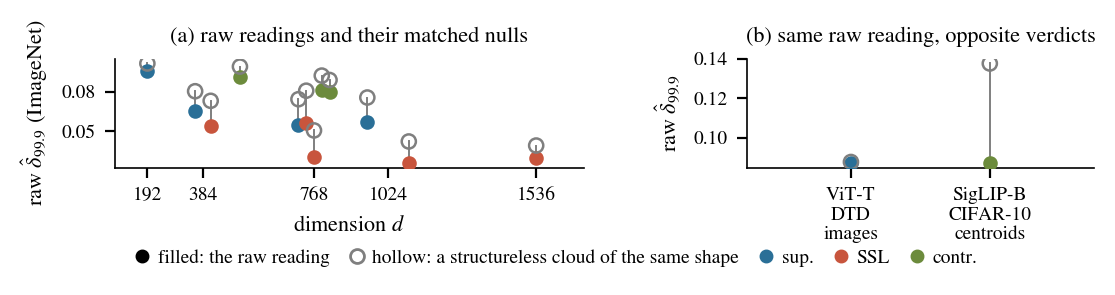
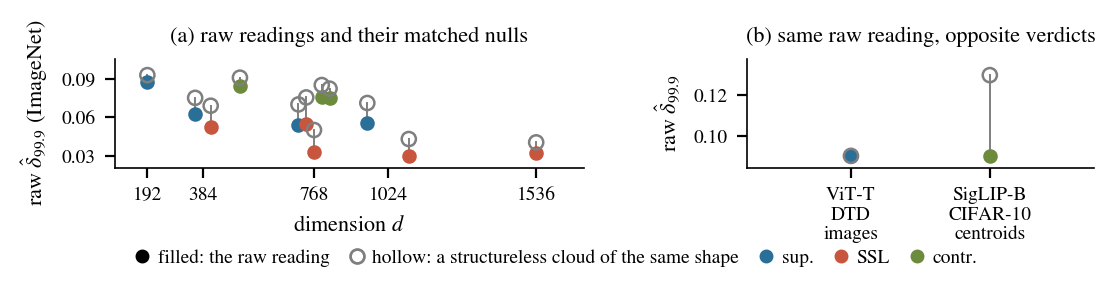
Figure 2: vertical headroom and unclipped markers so the top rings are whole; body regenerated from the template, restoring the abstract ('withinynull' from the Overleaf sync) and two provenance comments in Section 1; 0 warnings, page 9, sweep 160/160
Claude-Session: https://claude.ai/code/session_01X3uQtPxuL37VCSgmwvB8QH

diff --git a/ICLR2027/iclr2027/main_iclr2027.tex b/ICLR2027/iclr2027/main_iclr2027.tex
@@ -47,7 +47,7 @@
 \raggedbottom   % final pass: [t] figures and [H] tables leave short pages; ragged bottoms instead of underfull vertical boxes
 
 \begin{abstract}
-Hyperbolic methods for representation learning rest on a premise we call latent hyperbolicity: standard models are already tree-like, because their class geometry scores a low Gromov $\delta$. We show that this raw reading is confounded by dimension, by covariance spectrum and by the supremum statistic itself, and we build an instrument that reads every score as an excess over a random cloud with the same dimension and spectrum, ranks it against 200 matched replicates, and adds a depth test whose false-alarm rate and power are measured on real clouds. Applied to 12 vision backbones, 6 datasets and 16 text models, the instrument gives a nuanced answer. On image features, where the premise is read, the excess sits withinynull noise in most cells and reaches at most 40\% of the null where it survives. On class centroids, clustered structure is genuine in 49 of 72 cells, but a star already produces it. Hierarchy above the superclasses is certified in 4 of 12 ImageNet backbones, the same four under a star with the real hubs' spectrum, by a test that never fires on real clouds with randomized hubs; a backbone trained in hyperbolic space lives in the near-flat regime and shows the same clustering and no detected depth. The trees are moderately shared: a naive comparison isolates the DINOv2 family as an island, an artifact of the clustering cut; once the cut is controlled a gap of about a third remains, every training recipe recovers the human taxonomy partially, more so with supervision, and the self-supervised tree lives in angles rather than distances. Read correctly, foundation models organize classes into clustered structure that is occasionally hierarchical and moderately shared; they do not converge to one common tree, and their raw tree-likeness is not evidence for hyperbolic geometry. % expR62_samplelevel_record.csv, expR52_census_haar_p999_200.csv, expR56_depth_variants.csv, expR69_depth_haarhubs_summary.csv, expR63_meru_record.csv, expR71_meru_radii.csv, exp23_treemap_controls.npz, expR58_treemap_cutfree_summary.csv
+Hyperbolic methods for representation learning rest on a premise we call latent hyperbolicity: standard models are already tree-like, because their class geometry scores a low Gromov $\delta$. We show that this raw reading is confounded by dimension, by covariance spectrum and by the supremum statistic itself, and we build an instrument that reads every score as an excess over a random cloud with the same dimension and spectrum, ranks it against 200 matched replicates, and adds a depth test whose false-alarm rate and power are measured on real clouds. Applied to 12 vision backbones, 6 datasets and 16 text models, the instrument gives a nuanced answer. On image features, where the premise is read, the excess sits within null noise in most cells and reaches at most 40\% of the null where it survives. On class centroids, clustered structure is genuine in 49 of 72 cells, but a star already produces it. Hierarchy above the superclasses is certified in 4 of 12 ImageNet backbones, the same four under a star with the real hubs' spectrum, by a test that never fires on real clouds with randomized hubs; a backbone trained in hyperbolic space lives in the near-flat regime and shows the same clustering and no detected depth. The trees are moderately shared: a naive comparison isolates the DINOv2 family as an island, an artifact of the clustering cut; once the cut is controlled a gap of about a third remains, every training recipe recovers the human taxonomy partially, more so with supervision, and the self-supervised tree lives in angles rather than distances. Read correctly, foundation models organize classes into clustered structure that is occasionally hierarchical and moderately shared; they do not converge to one common tree, and their raw tree-likeness is not evidence for hyperbolic geometry. % expR62_samplelevel_record.csv, expR52_census_haar_p999_200.csv, expR56_depth_variants.csv, expR69_depth_haarhubs_summary.csv, expR63_meru_record.csv, expR71_meru_radii.csv, exp23_treemap_controls.npz, expR58_treemap_cutfree_summary.csv
 \end{abstract}
 
 \section{Introduction}
@@ -64,11 +64,11 @@ Hyperbolic methods for representation learning rest on a premise we call latent 
 
 Semantic knowledge is hierarchical, and hyperbolic space is the natural geometric home for hierarchies \citep{nickel2017poincare, sarkar2011low}. A line of work therefore imposes it on representations at training time, from vision to vision--language and language \citep{Khrulkov_2020_CVPR, ermolov2022hyperbolic, atigh2022hyperbolic, bdeir2024fully, desai2023meru, pal2025compositional, chen2022fully, he2026helm, sinha2024learning}. These methods cite a premise, which we call \emph{latent hyperbolicity}: standard models are said to organize concepts already in a tree-like metric structure, because the Gromov $\delta$ of their features is low \citep{Khrulkov_2020_CVPR, bdeir2024fully, yang2025hyperbolic, tifrea2019poincare}. Is the premise right, and what does it license?
 
-The raw reading is confounded. Gromov $\delta$ assigns zero to trees \citep{Gromov1987}, but three artifacts push it down without any hierarchy. High-dimensional clouds concentrate toward equidistance, which is a degenerate star tree: we call this the \emph{dimension confound}. Anisotropic spectra mimic low-dimensional behavior: the \emph{spectrum confound}. And the supremum over sampled quadruples is a one-quadruple extreme that does not converge: the \emph{statistic confound}. The three are visible in real models: GPT-2 M sits at its matched null despite a low raw reading, and classic sentence embedders share their raw reading with vision-contrastive models while carrying none of their structure.
+The raw reading is confounded. Gromov $\delta$ assigns zero to trees \citep{Gromov1987}, but three artifacts push it down without any hierarchy. High-dimensional clouds concentrate toward equidistance, which is a degenerate star tree: we call this the \emph{dimension confound}. Anisotropic spectra mimic low-dimensional behavior: the \emph{spectrum confound}. And the supremum over sampled quadruples is a one-quadruple extreme that does not converge: the \emph{statistic confound}. The three are visible in real models: GPT-2 M sits at its matched null despite a low raw reading, and classic sentence embedders share their raw reading with vision-contrastive models while carrying none of their structure. % exp18_text_nulls.csv, expR53_text_haar_p999_200.csv
 
 We build the \emph{instrument} that reads $\delta$ correctly. It calibrates the estimator on reference geometries, expresses every reading as an \emph{excess} over a null cloud matched in dimension and covariance spectrum, ranks that excess against matched replicates, and adds a \emph{depth test} whose false-alarm rate and power are measured on real clouds. With it we ask of geometry what convergence work asks of similarity \citep{huh2024platonic, groger2026aristotelian}: what survives calibration, and is it shared? They calibrate similarity across models; we calibrate geometry within a model, and comparing trees across models needs a calibration of its own.
 
-\textbf{The answer has three parts.} On image features the excess sits within null noise in most cells and is a fraction of the null where it survives, so the premise does not survive calibration as stated. On class centroids, clustered structure is genuine in 49 of 72 cells, but a star already produces it. Hierarchy above the superclasses is certified in 4 of 12 ImageNet backbones by a test that never fires on real clouds with randomized hubs, and a backbone trained in hyperbolic space shows the same clustering and no detected depth. The trees are moderately shared: the naive comparison manufactures an island, and once the clustering cut is controlled a moderate gap remains, every recipe recovers the human taxonomy partially, more so with supervision, and the self-supervised structure lives in angles.
+\textbf{The answer has three parts.} On image features the excess sits within null noise in most cells and is a fraction of the null where it survives, so the premise does not survive calibration as stated. On class centroids, clustered structure is genuine in 49 of 72 cells, but a star already produces it. Hierarchy above the superclasses is certified in 4 of 12 ImageNet backbones by a test that never fires on real clouds with randomized hubs, and a backbone trained in hyperbolic space shows the same clustering and no detected depth. The trees are moderately shared: the naive comparison manufactures an island, and once the clustering cut is controlled a moderate gap remains, every recipe recovers the human taxonomy partially, more so with supervision, and the self-supervised structure lives in angles. % expR62_samplelevel_record.csv, expR52_census_haar_p999_200.csv, expR56_depth_variants.csv, expR63_meru_record.csv, exp23_treemap_controls.npz
 
 \textbf{Our contributions are:}
 \begin{enumerate}[topsep=0pt,itemsep=1pt,leftmargin=*]

diff --git a/ICLR2027/figures/make_fig_overview.py b/ICLR2027/figures/make_fig_overview.py
@@ -46,10 +46,11 @@ for d, ms in by_d.items():
     for m, o in zip(ms, offs):
         raw, null = d_in[m]; x = d + o
         ax.plot([x, x], [null, raw], "-", color=GRAY, lw=0.7, zorder=1)
-        ax.scatter(x, raw, s=18, color=fam_color(m), zorder=3)
-        ax.scatter(x, null, s=26, facecolors="none", edgecolors=GRAY, linewidths=0.9, zorder=4)   # ring above the dot: visible even when the null sits at the reading
+        ax.scatter(x, raw, s=18, color=fam_color(m), zorder=3, clip_on=False)
+        ax.scatter(x, null, s=26, facecolors="none", edgecolors=GRAY, linewidths=0.9, zorder=4, clip_on=False)   # ring above the dot: visible even when the null sits at the reading
 ax.set_xlabel("dimension $d$"); ax.set_ylabel(r"raw $\hat\delta_{99.9}$ (ImageNet)"); ax.set_title("(a) raw readings and their matched nulls")
-ax.set_xlim(80, 1700); ax.set_xticks([192, 384, 768, 1024, 1536]); tidy(ax)
+ax.set_xlim(80, 1700); ax.set_xticks([192, 384, 768, 1024, 1536])
+lo, hi = ax.get_ylim(); ax.set_ylim(lo - 0.08*(hi-lo), hi + 0.14*(hi-lo)); tidy(ax)   # headroom so the top rings are not cut by the axis edge
 # ---- (b): the two cells with equal raw reading (decision recorded in phaseC_fig2b.json)
 ax = axes[1]
 D = json.load(open(RES/"phaseC_fig2b.json")); assert D.get("mode") == "sample", D
@@ -62,10 +63,11 @@ cells = [(NM[s_m] + "\n" + DSN[s_ds] + "\nimages", fam_color(s_m), float(sl[(s_m
 print(f"(b) {s_m}/{s_ds} raw {cells[0][2]:.3f} null {cells[0][3]:.3f} | {c_m}/{c_ds} raw {cells[1][2]:.3f} null {cells[1][3]:.3f}")
 for i, (lab, col, raw, null) in enumerate(cells):
     ax.plot([i, i], [null, raw], "-", color=GRAY, lw=0.7, zorder=1)
-    ax.scatter(i, raw, s=18, color=col, zorder=3)
-    ax.scatter(i, null, s=26, facecolors="none", edgecolors=GRAY, linewidths=0.9, zorder=4)
+    ax.scatter(i, raw, s=18, color=col, zorder=3, clip_on=False)
+    ax.scatter(i, null, s=26, facecolors="none", edgecolors=GRAY, linewidths=0.9, zorder=4, clip_on=False)
 ax.set_xticks([0, 1]); ax.set_xticklabels([c[0] for c in cells], fontsize=8, linespacing=1.15); ax.set_xlim(-0.75, 1.75)
-ax.set_ylabel(r"raw $\hat\delta_{99.9}$"); ax.set_title("(b) same raw reading, opposite verdicts"); tidy(ax)
+ax.set_ylabel(r"raw $\hat\delta_{99.9}$"); ax.set_title("(b) same raw reading, opposite verdicts")
+lo, hi = ax.get_ylim(); ax.set_ylim(lo - 0.08*(hi-lo), hi + 0.14*(hi-lo)); tidy(ax)
 # ---- one legend below both panels
 hd = [plt.Line2D([], [], marker="o", ls="", color="k", ms=4, label="filled: the raw reading"),
       plt.Line2D([], [], marker="o", ls="", mfc="none", mec=GRAY, ms=5, label="hollow: a structureless cloud of the same shape")]

diff --git a/ICLR2027/CHANGELOG_final.md b/ICLR2027/CHANGELOG_final.md
@@ -927,3 +927,8 @@ un CSV; `rebuttal/results/phaseE_fills.json` guarda los valores); el apéndice, 
 - 24c, retoque tipográfico (petición del autor): en la Figura 2(b) las etiquetas de las dos celdas van en tres líneas a 8 pt
   ("ViT-T / DTD / images", "SigLIP-B / CIFAR-10 / centroids"), el panel es más ancho (proporción 1.35:1) y hay más aire entre las dos
   posiciones. Recompilado: 0 avisos, página 9; `qa_pages/` regenerado.
+- 24c, retoque tipográfico (petición del autor): en la Figura 2 los anillos superiores quedaban recortados por el borde del eje; margen
+  vertical añadido en ambos paneles y marcadores sin recorte (`clip_on=False`). Además, el sync de Overleaf `overleaf-2026-09-17-1419`
+  (commit 366218d) había introducido "withinynull" en el abstract y borrado los comentarios `% fichero.csv` de dos párrafos de §1;
+  el cuerpo se ha regenerado desde `phaseE_paper.tex.tmpl` (fuente del texto), lo que restaura el abstract literal y la procedencia.
+  Cualquier edición del cuerpo debe hacerse en la plantilla y re-aplicarse con `phaseE_final.py`.

diff --git a/ICLR2027/REVIEWER_CHECKLIST_third.md b/ICLR2027/REVIEWER_CHECKLIST_third.md
@@ -45,6 +45,6 @@ Each question of the third review, answered from the main text alone; line numbe
 ## Q9. Minor: 'pre-registered', the ordering trees < hyperbolic < spherical, the repeated sentence in A.3, the old illustration, bold in Table 1, the bridges and the number density.
 
 - **Section 3** (line 184): 'Pre-registered' is 'pre-specified' throughout (no dated public record exists).
-- **Section 2, 'Background'** (line 133): The ordering is stated for hyperbolic regions of radius >= 4, where it holds in Table 2.
+- **Section 2, 'Background'** (line 134): The ordering is stated for hyperbolic regions of radius >= 4, where it holds in Table 2.
 - **Table 1 caption** (line 232): Bold is restored on the sign-positive cells.
 - **Sections 3-5, last paragraphs** (line 199): Three bridges remain (end of Sections 3, 4 and 5, distinct wording); every other paragraph ends on its claim. The repeated sentence of A.3 and the old illustration (former Figure 12) are gone; the appendix is fourteen tables, one per question, numbered in citation order.
